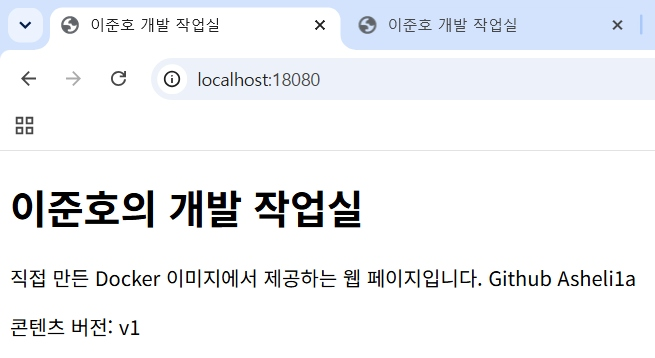
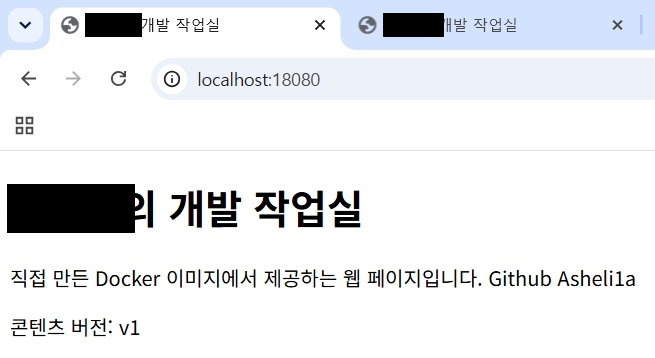
docs: redact personal names and update privacy guidance

Changed region(s): [[0.0, 0.4916, 0.2137, 0.676], [0.5802, 0.0307, 0.7023, 0.1229], [0.1221, 0.0307, 0.2137, 0.1229]]

diff --git a/cli-practice/bind-site/index.html b/cli-practice/bind-site/index.html
@@ -3,10 +3,10 @@
 <head>
   <meta charset="utf-8">
   <meta name="viewport" content="width=device-width, initial-scale=1">
-  <title>이준호 개발 작업실</title>
+  <title>이XX 개발 작업실</title>
 </head>
 <body>
-  <h1>이준호의 개발 작업실</h1>
+  <h1>이XX의 개발 작업실</h1>
   <p>직접 만든 Docker 이미지에서 제공하는 웹 페이지입니다. Github Asheli1a</p>
   <p id="version">콘텐츠 버전: v2 - 바인드 마운트 반영</p>
 </body>

diff --git a/site/index.html b/site/index.html
@@ -3,10 +3,10 @@
 <head>
   <meta charset="utf-8">
   <meta name="viewport" content="width=device-width, initial-scale=1">
-  <title>이준호 개발 작업실</title>
+  <title>이XX 개발 작업실</title>
 </head>
 <body>
-  <h1>이준호의 개발 작업실</h1>
+  <h1>이XX의 개발 작업실</h1>
   <p>직접 만든 Docker 이미지에서 제공하는 웹 페이지입니다. Github Asheli1a</p>
   <p id="version">콘텐츠 버전: v1</p>
 </body>

diff --git a/README.md b/README.md
@@ -51,7 +51,7 @@
 | [06-troubleshooting](docs/06-troubleshooting.md) | 오류·환경 문제 6건의 분석·대응 | 해결 확인 5건, 서버 설치 실패 1건은 원인 미확인 |
 | [07-compose](docs/07-compose.md) | 선택 미션의 의미·Compose 단일 서비스·운영 절차 | 초안 작성 / 미실행 |
 
-검토 기준은 2026-10-31까지 제공된 파일과 실행 결과다. 문서 편집 완료와 필수 과제 전체 완료는 구분한다. 05 문서는 원격에서 내용과 캡처 링크를 확인했다. 웹 서버는 커밋 ab1ce1a5854d598ea058c41d885a58fb826ff0a5의 별도 clone에서 재현했다.
+실습 기록의 검토 기준은 2026-10-31까지 제공된 파일과 실행 결과이며, 보안 점검·실명 비식별화는 2026-11-02에 추가 반영했다. 문서 편집 완료와 필수 과제 전체 완료는 구분한다. 05 문서는 원격에서 내용과 캡처 링크를 확인했다. 웹 서버는 커밋 ab1ce1a5854d598ea058c41d885a58fb826ff0a5의 별도 clone에서 재현했다.
 
 ## 3. 수행 체크리스트
 
@@ -251,18 +251,24 @@ Git은 로컬에서 변경 이력과 브랜치를 관리하는 도구이고, Git
 
 ## 8. 보안 점검
 
-- 검토 일자: 2026-10-31
-- 검토 범위: 현재 제출 대상 문서·로그·파일 목록과 캡처. 캡처의 육안 검토는 작성자가 완료했다고 확인했다.
-- 본인 실명은 공개 의도에 따라 검토 대상에서 제외했다.
+- 검토 일자: 2026-11-02
+- 검토 범위: 현재 제출 대상 문서·로그·파일 목록과 캡처. 캡처의 육안 검토 완료.
+- 공개 자료의 실명은 `이XX`로 비식별화하고, 이미지의 실명 포함 영역은 불투명하게 가림 처리했다.
 
 - [x] 확인한 현재 문서·로그에서 마스킹되지 않은 토큰·비밀번호·개인키·인증 코드를 발견하지 못했다.
 - [x] Git 설정 출력과 원격 URL에 인증정보가 포함되지 않았는지 검토했다.
-- [x] 캡처의 다른 창·탭·알림과 타인 계정 정보 등을 작성자가 육안 검토했다.
+- [x] 캡처의 다른 창·탭·알림과 타인 계정 정보 등을 육안 검토했다.
 - [x] 추적 파일 목록과 민감 파일명 패턴을 검사했다. 해당 패턴에 일치하는 파일은 발견되지 않았다.
 
-현재 제출 자료의 검토와 전체 과거 이력의 전수 검사는 구분한다. main에서 조회한 28개 커밋의 작성자·커미터 메타데이터와 일부 과거 변경 내용을 확인했으며, 초기 GitHub 인증 기록 커밋에서도 토큰은 마스킹되어 있었다. 모든 과거 커밋의 파일 내용에 대한 전수 검사나 저장소 전체 자동 비밀정보 검사를 완료했다는 뜻은 아니다. 파일명 패턴 검사만으로 비밀정보 파일이 전혀 없다고 보증하지 않는다.
+처음부터 실습 자료 작성과 제출 시 비밀번호, 개인 이메일 등 민감정보를 포함하지 않는 방향으로 진행했다. GitHub CLI 인증 상태 출력에서 토큰이 기본적으로 마스킹되어 있음을 확인했으며, 자동 마스킹 여부와 관계없이 공개 전 문서·로그·캡처를 별도로 검토했다.
 
-공용 장비를 반납해야 할 경우에는, 본인 VSCode·CLI·브라우저 인증과 동기화 상태를 확인·정리해야 한다.
+공용 노트북에서 실습하므로 실습·제출용 파일은 본인이 생성한 WSL 작업 디렉터리와 Windows 개인 작업 폴더에서 관리한다. 도구가 별도로 저장하는 인증정보와 설정은 해당 도구의 저장 위치 및 장비 정책에 따라 확인·관리한다.
+
+현재 제출 자료의 검토와 전체 과거 이력의 전수 검사는 구분한다. 이전 검토 당시 main에서 조회한 28개 커밋의 작성자·커미터 메타데이터와 일부 과거 변경 내용을 확인했으며, 초기 GitHub 인증 기록 커밋에서도 토큰은 마스킹되어 있었다. 모든 과거 커밋의 파일 내용에 대한 전수 검사나 저장소 전체 자동 비밀정보 검사를 완료했다는 뜻은 아니다. 파일명 패턴 검사만으로 비밀정보 파일이 전혀 없다고 보증하지 않는다.
+
+문서·과거 HTTP 응답 로그의 실명 치환과 이미지 가림은 개인정보 보호를 위한 공개본 편집이다. 과거 실행의 명령·포트·상태·ID·시각·버전·응답 헤더 값은 유지했다. 따라서 비식별화한 본문 길이가 과거 로그의 Content-Length와 다를 수 있으며, 이를 새로운 실행 출력으로 간주하지 않는다. 실제 웹 소스도 변경했으므로 이후 새 이미지로 빌드할 때는 새 응답을 별도로 확인한다. 이 변경은 2026-11-02 현재 파일에 적용되며 과거 커밋의 원본·이미지까지 제거하는 이력 재작성은 포함하지 않는다
+
+매일 작업 종료 시 웹 브라우저의 코디세이·GitHub 등 본인 로그인 세션과 VSCode 계정을 확인하고 로그아웃한다. CLI에 별도로 저장된 본인 인증 상태도 확인하고 장비 정책에 따라 정리한다. 장비 자체를 반납해야 할 경우에는 본인 VSCode·CLI·브라우저 인증과 설정 동기화 상태까지 확인·정리한다. 다른 사용자의 인증정보나 설정은 일괄 삭제하지 않는다. 이는 작업 관리 방침이며, 특정 시점의 모든 로그아웃·토큰 폐기를 이미 수행했다는 증거를 뜻하지 않는다..
 
 ## 9. 보너스 과제
 
@@ -288,9 +294,4 @@ Git은 로컬에서 변경 이력과 브랜치를 관리하는 도구이고, Git
 
 ## 10. 남은 필수 확인
 
-1. 완료: Git 설정·전역/저장소별 출처·전체 설정 기록을 05 문서에 반영하고 구분을 확인했다.
-2. 완료: VSCode 본인 계정·WSL 저장소·CLI 인증 캡처를 05 문서에 연결하고 06 문서와의 일치를 확인했다.
-3. 완료: 추적 파일 목록을 확인하고 Markdown의 로컬 파일 링크 60개를 검사해 없는 대상 0개를 확인했다. 제목 앵커·외부 URL의 동작 검증은 이 파일 존재 검사와 구분한다.
-4. 완료: docs/04-storage.md에 볼륨 실험까지 반영한 버전을 별도 clone에서 확인했다. 상세 증거와 완료 체크를 유지한다.
-5. 완료: 동일 PC의 별도 clone에서 캐시를 사용한 웹 서버 재현과 현재 제출 자료의 보안·캡처 육안 검토를 마쳤다. 새 PC·캐시 없는 초기 환경 검증 및 전체 과거 이력의 전수 검사는 별도 범위로 남긴다.
-6. 외부 `code .`의 서버 설치 실패는 원인 미확인으로 남아 있으므로, 재발 시 로그를 수집하고 실행 진입 경로의 재현성을 확인한다.
+1. 외부 `code .`의 서버 설치 실패는 원인 미확인으로 남아 있으므로, 재발 시 로그를 수집하고 실행 진입 경로의 재현성을 확인한다.

diff --git a/docs/03-web.md b/docs/03-web.md
@@ -1,5 +1,7 @@
 # 커스텀 웹 서버 이미지 및 포트 매핑
 
+> 공개본 비식별화(2026-11-02): 문서·과거 응답 로그의 실명은 `이XX`로 치환하고, 브라우저 캡처의 실명 영역은 불투명하게 가렸다. 과거 실행의 포트·상태·ID·시각·버전·응답 헤더는 유지했다. 비식별화된 본문은 과거 원문과 길이가 다를 수 있다. 현재 보안 관리 방침은 [README 보안 점검](../README.md#8-보안-점검)을 참조한다.
+
 - 수행 일자: 2026-10-30
 - 별도 clone 재검증: 2026-10-31 — 마지막 절에 분리 기록
 - 실행 위치: WSL Ubuntu의 `~/dev-workstation`
@@ -49,10 +51,10 @@ $ cat site/index.html
 <head>
   <meta charset="utf-8">
   <meta name="viewport" content="width=device-width, initial-scale=1">
-  <title>이준호 개발 작업실</title>
+  <title>이XX 개발 작업실</title>
 </head>
 <body>
-  <h1>이준호의 개발 작업실</h1>
+  <h1>이XX의 개발 작업실</h1>
   <p>직접 만든 Docker 이미지에서 제공하는 웹 페이지입니다. Github Asheli1a</p>
   <p id="version">콘텐츠 버전: v1</p>
 </body>
@@ -166,10 +168,10 @@ Accept-Ranges: bytes
 <head>
   <meta charset="utf-8">
   <meta name="viewport" content="width=device-width, initial-scale=1">
-  <title>이준호 개발 작업실</title>
+  <title>이XX 개발 작업실</title>
 </head>
 <body>
-  <h1>이준호의 개발 작업실</h1>
+  <h1>이XX의 개발 작업실</h1>
   <p>직접 만든 Docker 이미지에서 제공하는 웹 페이지입니다. Github Asheli1a</p>
   <p id="version">콘텐츠 버전: v1</p>
 </body>
@@ -234,10 +236,10 @@ Accept-Ranges: bytes
 <head>
   <meta charset="utf-8">
   <meta name="viewport" content="width=device-width, initial-scale=1">
-  <title>이준호 개발 작업실</title>
+  <title>이XX 개발 작업실</title>
 </head>
 <body>
-  <h1>이준호의 개발 작업실</h1>
+  <h1>이XX의 개발 작업실</h1>
   <p>직접 만든 Docker 이미지에서 제공하는 웹 페이지입니다. Github Asheli1a</p>
   <p id="version">콘텐츠 버전: v1</p>
 </body>
@@ -297,7 +299,7 @@ Accept-Ranges: bytes
 - `EXPOSE 80`은 NGINX의 포트를 80으로 변경하는 설정이 아니며 호스트 포트 공개도 수행하지 않는다. 이번 베이스 이미지의 웹 포트가 80이라는 전제와 run의 -p 설정을 함께 사용했다.
 - `.dockerignore`는 Docker 빌드 컨텍스트 제외 설정이다. Git 추적 제외는 별도의 `.gitignore`에서 관리한다.
 - 태그 `nginx:alpine`은 나중에 다른 이미지로 바뀔 수 있다. 최초 빌드 로그에 보이는 digest는 터미널에서 잘린 형태이므로 완전한 digest 고정값으로 복사해 사용하지 않는다.
-- HTML 본문의 실명은 공개 콘텐츠에 포함돼 있다. 공개 여부는 작성자가 확인해야 하며 보안·개인정보 검토 완료로 간주하지 않는다.
+- 공개본의 실명은 이XX로 비식별화했다. 현재 제출 자료의 보안 검토 범위·결과는 README를 참조하며, 전체 과거 이력의 전수 검사와는 구분한다.
 - 이후 수행한 바인드 마운트 실험은 원본 site/index.html이 아니라 별도 복사본을 변경했다.
 - 같은 이름의 컨테이너 또는 사용 중인 호스트 포트가 있으면 충돌할 수 있다. 상태를 먼저 확인하고 이름·포트를 조정한다.
 - 연결한 소스 파일·PNG 이미지의 실제 저장소 존재 여부는 최종 제출 시 별도로 확인한다.
@@ -471,10 +473,10 @@ Accept-Ranges: bytes
 <head>
   <meta charset="utf-8">
   <meta name="viewport" content="width=device-width, initial-scale=1">
-  <title>이준호 개발 작업실</title>
+  <title>이XX 개발 작업실</title>
 </head>
 <body>
-  <h1>이준호의 개발 작업실</h1>
+  <h1>이XX의 개발 작업실</h1>
   <p>직접 만든 Docker 이미지에서 제공하는 웹 페이지입니다. Github Asheli1a</p>
   <p id="version">콘텐츠 버전: v1</p>
 </body>
@@ -496,10 +498,10 @@ Accept-Ranges: bytes
 <head>
   <meta charset="utf-8">
   <meta name="viewport" content="width=device-width, initial-scale=1">
-  <title>이준호 개발 작업실</title>
+  <title>이XX 개발 작업실</title>
 </head>
 <body>
-  <h1>이준호의 개발 작업실</h1>
+  <h1>이XX의 개발 작업실</h1>
   <p>직접 만든 Docker 이미지에서 제공하는 웹 페이지입니다. Github Asheli1a</p>
   <p id="version">콘텐츠 버전: v1</p>
 </body>
@@ -538,7 +540,7 @@ $ docker logs --tail 20 workspace-verify-18080
 
 ![별도 clone 재현: localhost 18081에서 v1 페이지 확인](images/verify-18081.jpg)
 
-두 캡처 모두 주소창에 재현용 포트가 보이고, 직접 작성한 개발 작업실 페이지와 `콘텐츠 버전: v1`을 확인할 수 있다. 원본 JPG를 내용 변경 없이 파일명만 구분해 보관했다.
+두 캡처 모두 주소창에 재현용 포트가 보이고, 직접 작성한 개발 작업실 페이지와 `콘텐츠 버전: v1`을 확인할 수 있다. 최초에는 원본 JPG를 파일명만 구분해 보관했으며, 2026-11-02 공개본의 실명 영역을 가림 처리했다.
 
 ### 결과
 

diff --git a/docs/04-storage.md b/docs/04-storage.md
@@ -1,5 +1,7 @@
 # 바인드 마운트 및 볼륨 실습
 
+> 공개본 비식별화(2026-11-02): 문서·과거 응답 로그의 실명은 `이XX`로 치환하고, 브라우저 캡처의 실명 영역은 불투명하게 가렸다. 과거 실행의 포트·상태·ID·시각·버전·응답 헤더는 유지했다. 비식별화된 본문은 과거 원문과 길이가 다를 수 있다. 현재 보안 관리 방침은 [README 보안 점검](../README.md#8-보안-점검)을 참조한다.
+
 ## 1. 바인드 마운트 변경 반영
 
 ### 목적
@@ -31,10 +33,10 @@ $ cat cli-practice/bind-site/index.html
 <head>
   <meta charset="utf-8">
   <meta name="viewport" content="width=device-width, initial-scale=1">
-  <title>이준호 개발 작업실</title>
+  <title>이XX 개발 작업실</title>
 </head>
 <body>
-  <h1>이준호의 개발 작업실</h1>
+  <h1>이XX의 개발 작업실</h1>
   <p>직접 만든 Docker 이미지에서 제공하는 웹 페이지입니다. Github Asheli1a</p>
   <p id="version">콘텐츠 버전: v1</p>
 </body>
@@ -103,10 +105,10 @@ Accept-Ranges: bytes
 <head>
   <meta charset="utf-8">
   <meta name="viewport" content="width=device-width, initial-scale=1">
-  <title>이준호 개발 작업실</title>
+  <title>이XX 개발 작업실</title>
 </head>
 <body>
-  <h1>이준호의 개발 작업실</h1>
+  <h1>이XX의 개발 작업실</h1>
   <p>직접 만든 Docker 이미지에서 제공하는 웹 페이지입니다. Github Asheli1a</p>
   <p id="version">콘텐츠 버전: v1</p>
 </body>
@@ -124,10 +126,10 @@ user@4F-103:~/dev-workstation$ cat cli-practice/bind-site/index.html
 <head>
   <meta charset="utf-8">
   <meta name="viewport" content="width=device-width, initial-scale=1">
-  <title>이준호 개발 작업실</title>
+  <title>이XX 개발 작업실</title>
 </head>
 <body>
-  <h1>이준호의 개발 작업실</h1>
+  <h1>이XX의 개발 작업실</h1>
   <p>직접 만든 Docker 이미지에서 제공하는 웹 페이지입니다. Github Asheli1a</p>
   <p id="version">콘텐츠 버전: v2 - 바인드 마운트 반영</p>
 </body>
@@ -162,10 +164,10 @@ Accept-Ranges: bytes
 <head>
   <meta charset="utf-8">
   <meta name="viewport" content="width=device-width, initial-scale=1">
-  <title>이준호 개발 작업실</title>
+  <title>이XX 개발 작업실</title>
 </head>
 <body>
-  <h1>이준호의 개발 작업실</h1>
+  <h1>이XX의 개발 작업실</h1>
   <p>직접 만든 Docker 이미지에서 제공하는 웹 페이지입니다. Github Asheli1a</p>
   <p id="version">콘텐츠 버전: v2 - 바인드 마운트 반영</p>
 </body>
@@ -181,10 +183,10 @@ $ curl -s http://localhost:8080
 <head>
   <meta charset="utf-8">
   <meta name="viewport" content="width=device-width, initial-scale=1">
-  <title>이준호 개발 작업실</title>
+  <title>이XX 개발 작업실</title>
 </head>
 <body>
-  <h1>이준호의 개발 작업실</h1>
+  <h1>이XX의 개발 작업실</h1>
   <p>직접 만든 Docker 이미지에서 제공하는 웹 페이지입니다. Github Asheli1a</p>
   <p id="version">콘텐츠 버전: v1</p>
 </body>
@@ -196,10 +198,10 @@ $ curl -s http://localhost:8081
 <head>
   <meta charset="utf-8">
   <meta name="viewport" content="width=device-width, initial-scale=1">
-  <title>이준호 개발 작업실</title>
+  <title>이XX 개발 작업실</title>
 </head>
 <body>
-  <h1>이준호의 개발 작업실</h1>
+  <h1>이XX의 개발 작업실</h1>
   <p>직접 만든 Docker 이미지에서 제공하는 웹 페이지입니다. Github Asheli1a</p>
   <p id="version">콘텐츠 버전: v1</p>
 </body>

diff --git a/docs/07-compose.md b/docs/07-compose.md
@@ -8,6 +8,7 @@
 - 예정 환경: 기존 Windows / WSL Ubuntu / Docker Desktop 환경
 - 기준 디렉터리: `~/dev-workstation` — 다른 PC에서는 clone한 저장소 루트로 바꾼다.
 - 기존 필수 과제 기록과 웹 원본, Dockerfile, 볼륨 데이터는 유지한다.
+- 2026-11-02 공개본의 실명은 비식별화했다. 이후 새로 수집한 Compose 로그·캡처도 공개 전에 검토하며, 과거 보안 검토 완료를 새 자료에 자동 적용하지 않는다.
 - 설정·명령 예시는 bash/yaml 블록으로, 실행 후 수집한 명령과 출력은 별도의 console 블록으로 기록한다.
 - 아직 관찰하지 않은 이미지 ID·컨테이너 ID·시각·HTTP 성공 응답은 만들어 넣지 않는다.
 - 초안을 커밋해도 보너스 체크리스트는 미완료로 둔다.
